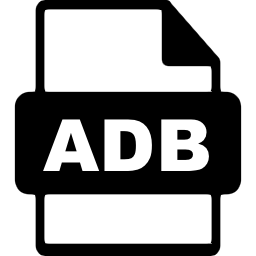
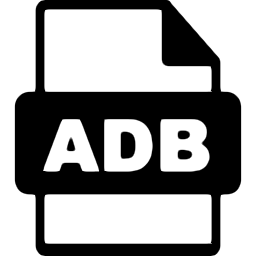
- support predefined adb commands

diff --git a/src/main/java/com/jpage4500/devicemanager/ui/dialog/CommandDialog.java b/src/main/java/com/jpage4500/devicemanager/ui/dialog/CommandDialog.java
@@ -17,7 +17,10 @@ import java.awt.*;
 import java.awt.event.KeyAdapter;
 import java.awt.event.KeyEvent;
 import java.awt.image.BufferedImage;
+import java.io.File;
 import java.util.List;
+import java.util.Map;
+import java.util.TreeMap;
 
 import static com.jpage4500.devicemanager.utils.PreferenceUtils.Pref;
 
@@ -28,6 +31,7 @@ public class CommandDialog extends JPanel {
     private static final Logger log = LoggerFactory.getLogger(CommandDialog.class);
 
     public static final int MAX_RECENT_COMMANDS = 10;
+    public static final String COMMANDS_TXT = "commands.txt";
 
     private Component frame;
     private HintTextField textField;
@@ -165,6 +169,29 @@ public class CommandDialog extends JPanel {
         return commandList;
     }
 
+    /**
+     * get any predefined commands which are saved in ~/.device-manager/commands.txt
+     * FORMAT: NAME = COMMAND
+     * -----------
+     * clear APP data = pm clear com.example.app
+     * open APP = ...
+     * -----------
+     */
+    public static Map<String, String> getNamedCommands() {
+        File home = Utils.getDeviceManagerFolder();
+        File namedCommandFile = new File(home, COMMANDS_TXT);
+        String commandsText = FileUtils.readFile(namedCommandFile);
+        TreeMap<String, String> resultMap = new TreeMap<>(String.CASE_INSENSITIVE_ORDER);
+        if (TextUtils.isEmpty(commandsText)) return resultMap;
+        String[] commandArr = commandsText.split("\n");
+        for (String command : commandArr) {
+            String[] lineArr = command.split("=");
+            if (lineArr.length < 2) continue;
+            resultMap.put(lineArr[0].trim(), lineArr[1].trim());
+        }
+        return resultMap;
+    }
+
     public static void addCustomCommand(String command) {
         // update recent list
         List<String> customCommands = getCustomCommands();
@@ -197,6 +224,56 @@ public class CommandDialog extends JPanel {
         customCommands.remove(command);
         PreferenceUtils.setPreference(Pref.PREF_CUSTOM_COMMAND_LIST, GsonHelper.toJson(customCommands));
         populateRecent();
+    }
+
+    public static void setupCommandPopupMenu(JPopupMenu popup, Device device) {
+        JMenu commandMenu = new JMenu("Send Command");
+        Map<String, String> namedCommandMap = CommandDialog.getNamedCommands();
+        namedCommandMap.forEach((name, command) -> {
+            JMenuItem item = new JMenuItem(name);
+            item.setToolTipText(command);
+            item.addActionListener(e -> runCustomCommand(popup, device, command, false));
+            commandMenu.add(item);
+        });
+        if (!namedCommandMap.isEmpty()) commandMenu.addSeparator();
+
+        // add previously used commands (last 10)
+        List<String> customCommandList = CommandDialog.getCustomCommands();
+        for (String command : customCommandList) {
+            JMenuItem item = new JMenuItem(command);
+            item.addActionListener(e -> runCustomCommand(popup, device, command, true));
+            commandMenu.add(item);
+        }
+        if (!customCommandList.isEmpty()) commandMenu.addSeparator();
+
+        JMenuItem item = new JMenuItem("Enter Command...", UiUtils.getImageIcon(Icons.FILE_ADB, UiUtils.IMG_SIZE_SMALL));
+        item.addActionListener(e -> handleSendCommand(popup, device));
+        commandMenu.add(item);
+
+        popup.add(commandMenu);
+        popup.addSeparator();
+    }
+
+    private static void runCustomCommand(Component component, Device device, String command, boolean saveResult) {
+        if (saveResult) {
+            // move to top of recent list
+            CommandDialog.addCustomCommand(command);
+        }
+        DeviceManager.getInstance().runCustomCommand(device, command, result -> {
+            String title = result.isSuccess ? "Success" : "Failed";
+            String text = TextUtils.join(result.resultList, "\n");
+            DialogHelper.showTextDialog(component, title, text);
+        });
+    }
+
+    private static void handleSendCommand(Component component, Device device) {
+        // prompt for adb command
+        String command = DialogHelper.showInputDialog(component, "ADB Command", "Enter command to run", null);
+        if (TextUtils.isEmpty(command)) return;
+
+        command = CommandDialog.santizeCommand(command);
+
+        runCustomCommand(component, device, command, true);
     }
 
 }

diff --git a/src/main/java/com/jpage4500/devicemanager/ui/DeviceScreen.java b/src/main/java/com/jpage4500/devicemanager/ui/DeviceScreen.java
@@ -505,27 +505,7 @@ public class DeviceScreen extends BaseScreen implements DeviceManager.DeviceList
 
             popupMenu.addSeparator();
 
-            JMenu commandMenu = new JMenu("Send Command");
-            // add previously used commands (last 10)
-            List<String> customCommandList = CommandDialog.getCustomCommands();
-            for (String command : customCommandList) {
-                JMenuItem item = new JMenuItem(command, UiUtils.getImageIcon(Icons.FILE_ADB, UiUtils.IMG_SIZE_SMALL));
-                item.addActionListener(e -> {
-                    DeviceManager.getInstance().runCustomCommand(device, command, result -> {
-                        // move to top of recent list
-                        CommandDialog.addCustomCommand(command);
-                        DialogHelper.showTextDialog(this, "Result", result.toString());
-                    });
-                });
-                commandMenu.add(item);
-            }
-            if (!customCommandList.isEmpty()) commandMenu.addSeparator();
-
-            JMenuItem item = new JMenuItem("Enter Command...", UiUtils.getImageIcon(Icons.FILE_ADB, UiUtils.IMG_SIZE_SMALL));
-            item.addActionListener(e -> handleSendCommand(device));
-            commandMenu.add(item);
-
-            popupMenu.add(commandMenu);
+            CommandDialog.setupCommandPopupMenu(popupMenu, device);
 
             if (device.isWireless()) {
                 popupMenu.addSeparator();
@@ -539,21 +519,6 @@ public class DeviceScreen extends BaseScreen implements DeviceManager.DeviceList
             UiUtils.addPopupMenuItem(popupMenu, "Remove", actionEvent -> handleRemoveDevice(device));
         }
         return popupMenu;
-    }
-
-    private void handleSendCommand(Device device) {
-        // prompt for adb command
-        String command = DialogHelper.showInputDialog(this, "ADB Command", "Enter command to run", null);
-        if (TextUtils.isEmpty(command)) return;
-
-        command = CommandDialog.santizeCommand(command);
-
-        CommandDialog.addCustomCommand(command);
-
-        // send command to device
-        DeviceManager.getInstance().runCustomCommand(device, command, result -> {
-            DialogHelper.showTextDialog(this, "Result", result.toString());
-        });
     }
 
     private void addPopupMenuItem(JPopupMenu popupMenu, ToolbarButton toolbarButton) {

diff --git a/src/main/java/com/jpage4500/devicemanager/ui/RemoteScreenWindow.java b/src/main/java/com/jpage4500/devicemanager/ui/RemoteScreenWindow.java
@@ -4,6 +4,7 @@ import com.jpage4500.devicemanager.data.Device;
 import com.jpage4500.devicemanager.data.Icons;
 import com.jpage4500.devicemanager.manager.DeviceManager;
 import com.jpage4500.devicemanager.manager.client.RemoteConnection;
+import com.jpage4500.devicemanager.ui.dialog.CommandDialog;
 import com.jpage4500.devicemanager.ui.views.StatusBar;
 import com.jpage4500.devicemanager.utils.*;
 import org.slf4j.Logger;
@@ -894,7 +895,6 @@ public class RemoteScreenWindow extends BaseScreen implements RemoteConnection.S
             addPopupItem(popup, "Back", Icons.BACK, AndroidKeyMapper.KEYCODE_BACK);
             // Recent Apps / Task Switcher
             addPopupItem(popup, "Recent Apps", Icons.RECENT, AndroidKeyMapper.KEYCODE_APP_SWITCH);
-            popup.addSeparator();
             // Menu
             addPopupItem(popup, "Menu", Icons.MENU, AndroidKeyMapper.KEYCODE_MENU);
             popup.addSeparator();
@@ -910,6 +910,8 @@ public class RemoteScreenWindow extends BaseScreen implements RemoteConnection.S
                 popup.add(pasteItem);
                 popup.addSeparator();
             }
+
+            CommandDialog.setupCommandPopupMenu(popup, device);
 
             // TODO: uncomment later if useful
 //            // Page Up

diff --git a/src/main/java/com/jpage4500/devicemanager/utils/FileUtils.java b/src/main/java/com/jpage4500/devicemanager/utils/FileUtils.java
@@ -202,4 +202,25 @@ public class FileUtils {
         }
         return null;
     }
+
+    public static String readFile(File file) {
+        if (file == null || !file.exists()) {
+            log.trace("readFile: file doesn't exist: {}", file);
+            return null;
+        }
+        StringBuilder sb = new StringBuilder();
+        try {
+            BufferedReader reader = new BufferedReader(new InputStreamReader(new FileInputStream(file)));
+            String line;
+            while ((line = reader.readLine()) != null) {
+                sb.append(line);
+                sb.append('\n');
+            }
+            reader.close();
+        } catch (Exception e) {
+            log.error("readFile: Exception: file:{}, {}", file, e.getMessage());
+        }
+        return sb.toString();
+    }
+
 }

diff --git a/src/main/java/com/jpage4500/devicemanager/utils/PreferenceUtils.java b/src/main/java/com/jpage4500/devicemanager/utils/PreferenceUtils.java
@@ -19,7 +19,7 @@ public class PreferenceUtils {
         PREF_GO_TO_FOLDER_LIST,
         PREF_RECENT_WIRELESS_DEVICES,
         PREF_LAST_DEVICE_IP,
-        PREF_CUSTOM_COMMAND_LIST,
+        PREF_CUSTOM_COMMAND_LIST,             // list of custom adb commands
         PREF_RECENT_INPUT,
         PREF_MESSAGE_FILTERS,
         PREF_HIDDEN_TOOLBAR_ITEMS,            // hidden toolbar items (enum name)
